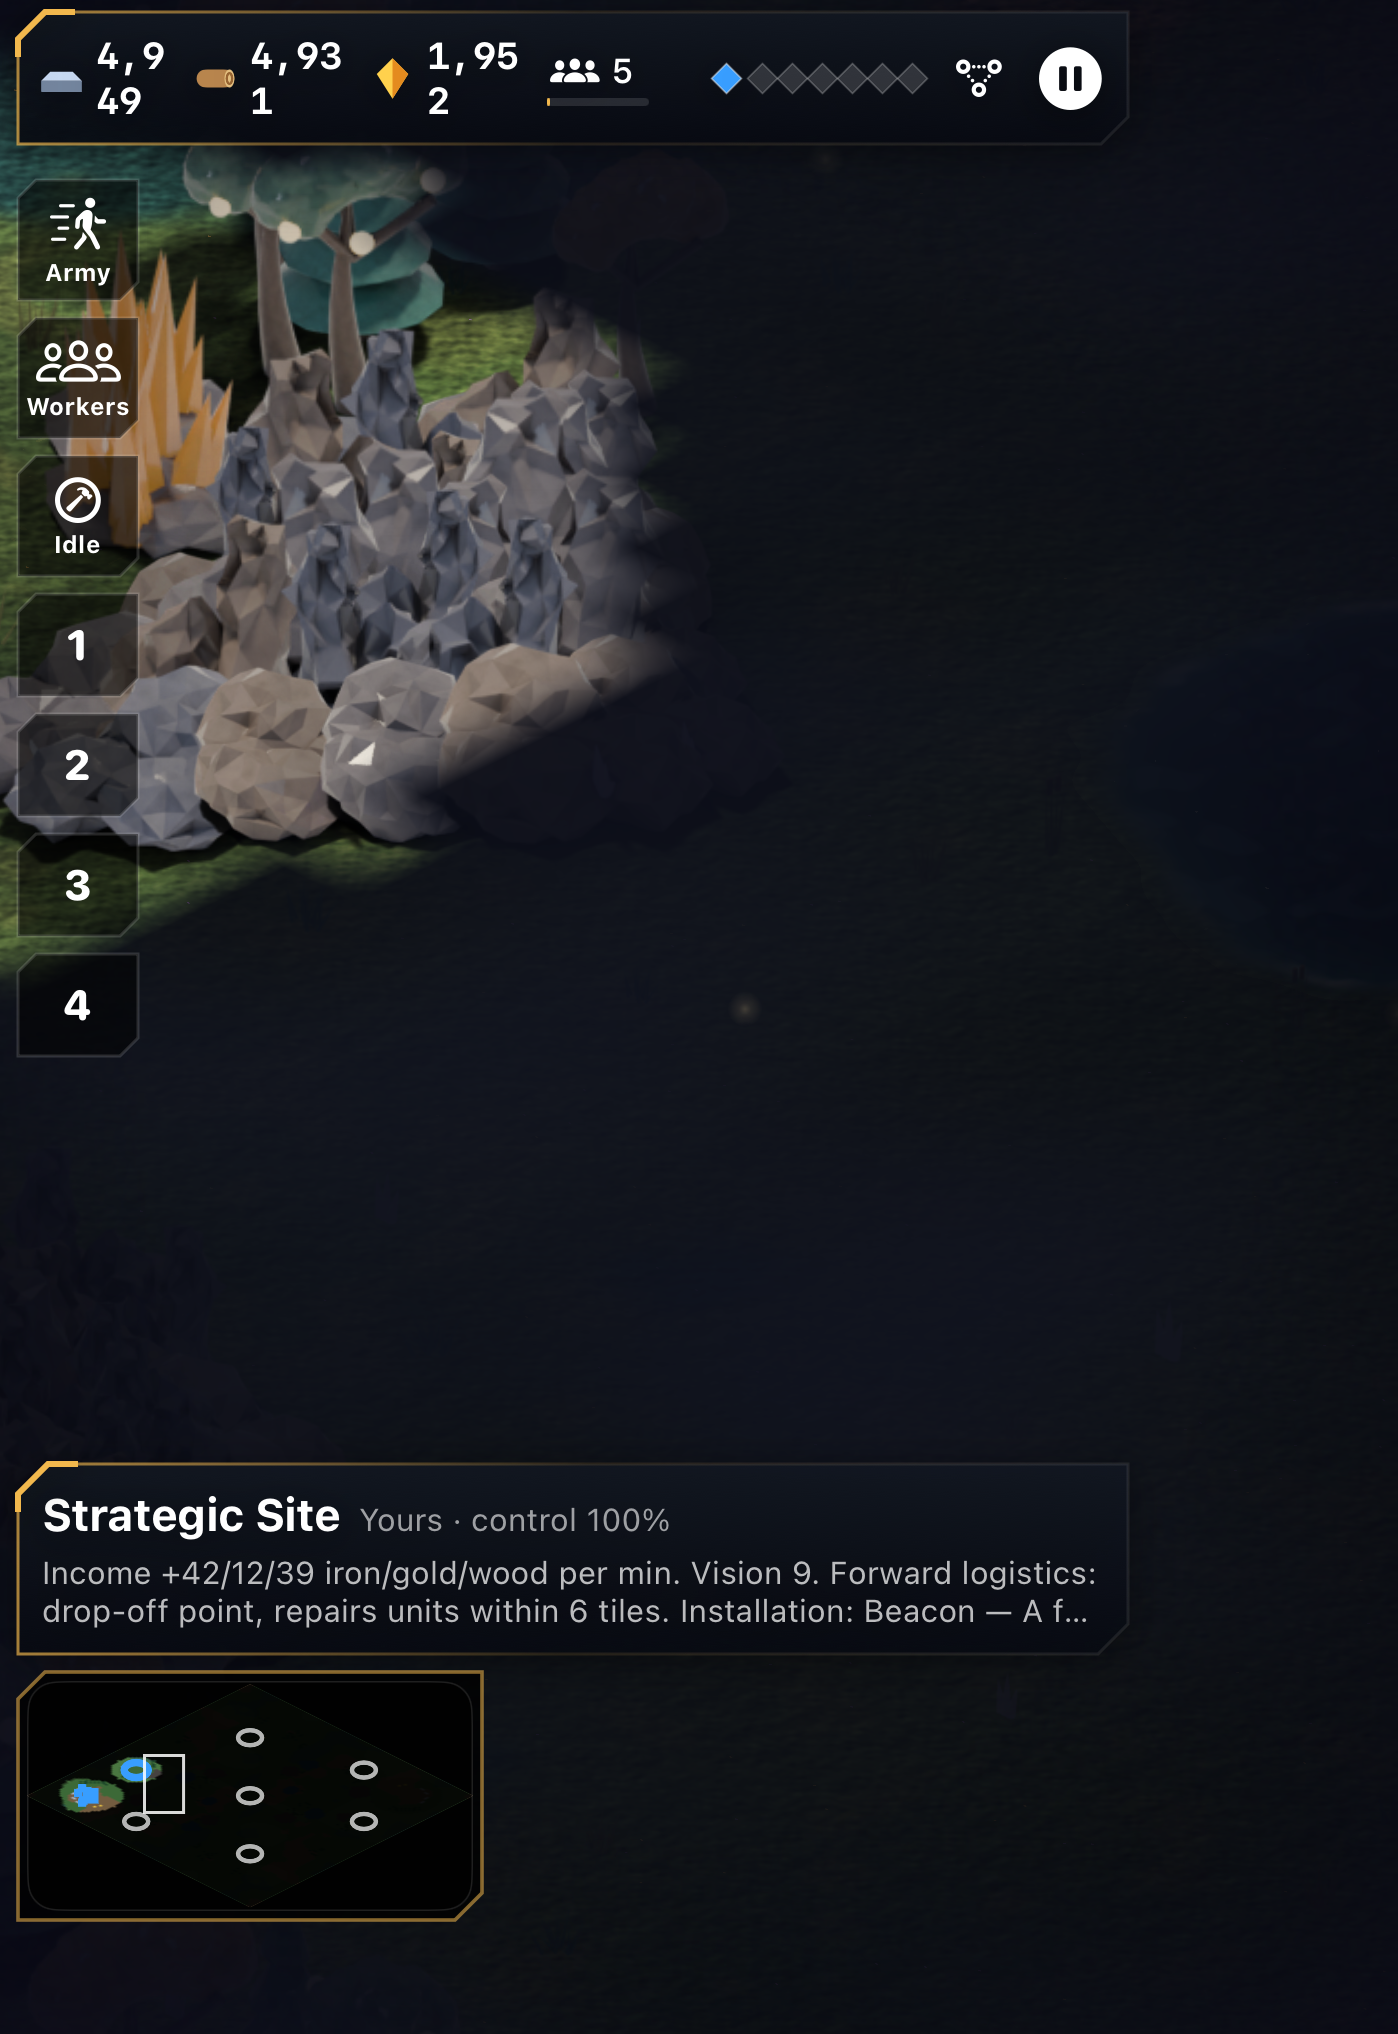
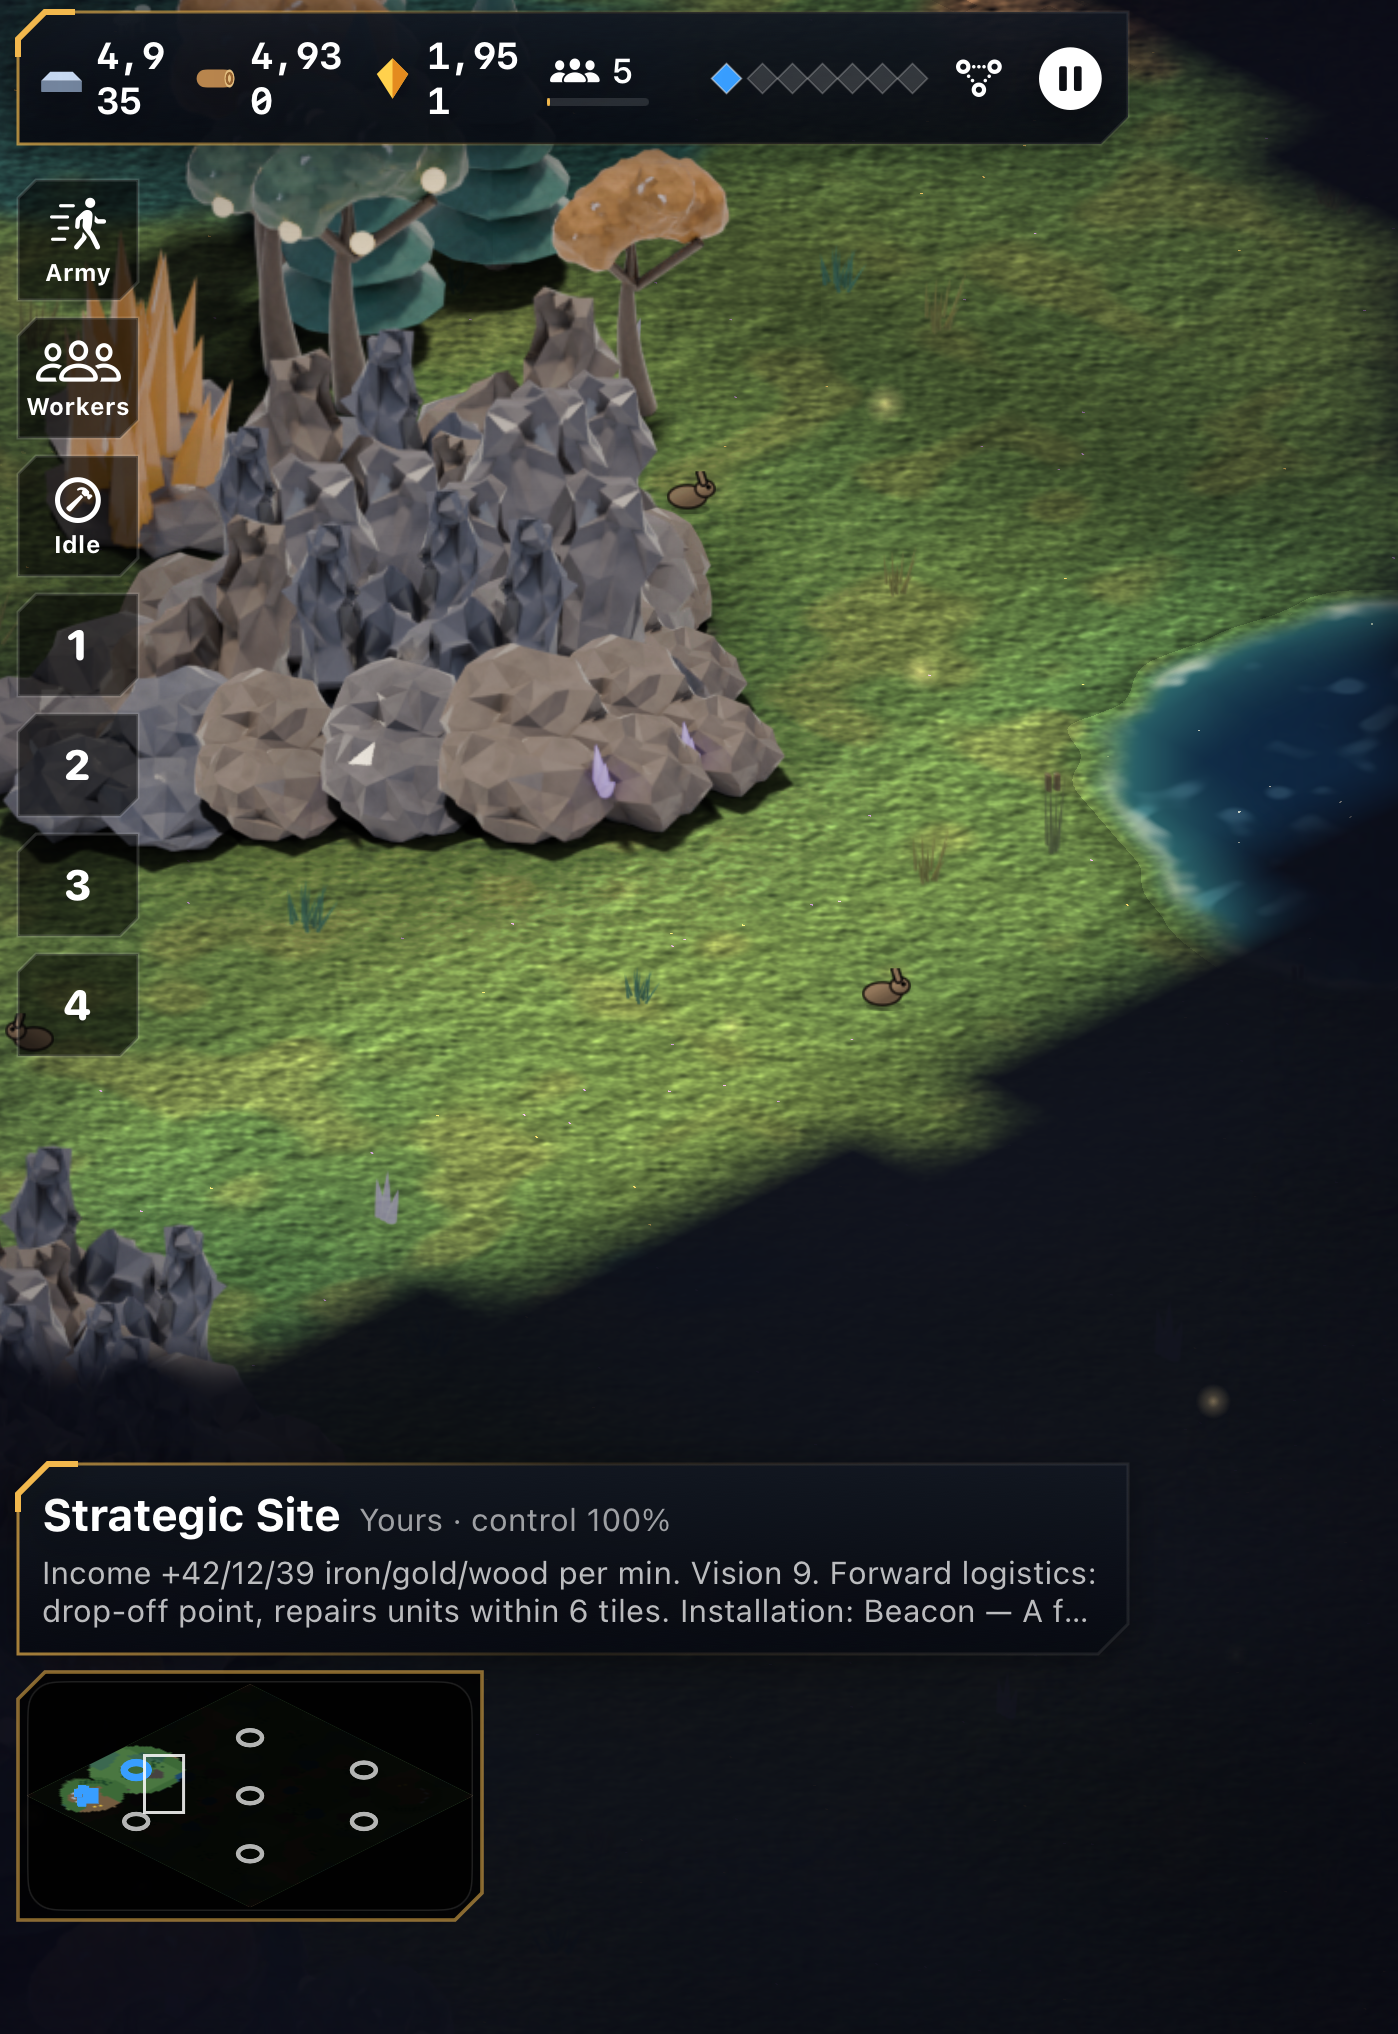
Feature checks: the Beacon check places a barracks 14 tiles out on unscouted ground
The -scouted workaround is gone; screenshots re-taken.

diff --git a/MeridianUITests/FeatureChecksUITests.swift b/MeridianUITests/FeatureChecksUITests.swift
@@ -117,17 +117,16 @@ final class FeatureChecksUITests: XCTestCase {
 
     // MARK: Beacon
 
-    /// Configures a Beacon on a held site and tries a Drill Hall (barracks) 14 tiles away, first on unscouted ground,
-    /// then with the ground around the site explored.
-    func beaconFlow(scouted: Bool) -> String {
-        launch(["-autostart", "-seed", "4", "-beaconcheck"] + (scouted ? ["-scouted"] : []))
+    /// Configures a Beacon on a freshly held site and places a Drill Hall (barracks) 14 tiles away on ground nobody
+    /// has scouted: the Beacon sees across its own build zone.
+    func testBeaconForwardBase() throws {
+        launch(["-autostart", "-seed", "4", "-beaconcheck"])
         XCTAssertTrue(hud())
-        let tag = scouted ? "scouted" : "unexplored"
         let beacon = element("cmd_inst4")
         XCTAssertTrue(beacon.waitForExistence(timeout: 10), "Beacon configure button"); sleep(1)
-        if !scouted { shot("beacon_01_configure_menu") }
-        beacon.tap(); sleep(1)
-        if !scouted { shot("beacon_02_configured") }
+        shot("beacon_01_configure_menu")
+        beacon.tap(); sleep(2)
+        shot("beacon_02_configured")
         app.buttons["test_select_workers"].tap(); sleep(1)
         element("cmd_build").tap()
         let hall = app.descendants(matching: .any).matching(identifier: "cmd_b2").firstMatch
@@ -135,20 +134,12 @@ final class FeatureChecksUITests: XCTestCase {
         center().tap(); sleep(1)
         let reason = element("placementReason")
         XCTAssertTrue(reason.waitForExistence(timeout: 3))
-        print("BEACON-CHECK \(tag): \(reason.label)")
-        shot("beacon_03_barracks_" + tag)
+        let label = reason.label
+        print("BEACON-CHECK \(label)")
+        shot("beacon_03_barracks_14_tiles")
         let confirm = app.buttons["confirmPlacement"]
-        let result = reason.label + (confirm.isEnabled ? "" : " [blocked]")
-        if confirm.isEnabled { confirm.tap(); sleep(2); shot("beacon_04_barracks_placed_" + tag) }
-        return result
-    }
-
-    func testBeaconForwardBase() throws {
-        let fog = beaconFlow(scouted: false)
-        XCTAssertTrue(fog.contains("Unexplored"), "unscouted ground 14 tiles out: \(fog)")
-        app.terminate()
-        let ok = beaconFlow(scouted: true)
-        XCTAssertTrue(ok.contains("14 tiles") && !ok.contains("blocked"), "scouted ground 14 tiles out should take a barracks: \(ok)")
+        XCTAssertTrue(label.contains("14 tiles") && confirm.isEnabled, "a barracks 14 tiles from a Beacon should be placeable: \(label)")
+        if confirm.isEnabled { confirm.tap(); sleep(2); shot("beacon_04_barracks_placed") }
     }
 
     // MARK: Replay round trip

diff --git a/Meridian/Game/DevChecks.swift b/Meridian/Game/DevChecks.swift
@@ -28,9 +28,7 @@ extension GameController {
     /// `-beaconcheck`: the player holds the nearest neutral site with resources to spare; the site is selected so
     /// its installation menu shows, and the camera sits 14 tiles east of it (where a barracks should fit once a
     /// Beacon stands there).
-    /// With `scouted`, the ground around the site counts as explored (as if a scout had walked it): a site itself
-    /// only reveals 9 tiles, so 14 tiles out is fog until someone looks.
-    func setupBeaconCheck(scouted: Bool = false) {
+    func setupBeaconCheck() {
         let p = world.players[me]
         p.res = [5000, 2000, 5000]
         guard let hq = world.buildings(of: me).first else { return }
@@ -38,11 +36,6 @@ extension GameController {
             .min(by: { dist2(world.sites[$0].x, world.sites[$0].y, hq.x, hq.y) < dist2(world.sites[$1].x, world.sites[$1].y, hq.x, hq.y) }) else { return }
         world.sites[i].owner = me; world.sites[i].control = 1
         for _ in 0..<4 { match.step() }
-        if scouted {
-            let (sx, sy) = (Int(world.sites[i].x), Int(world.sites[i].y)), n = world.map.size
-            for y in max(0, sy - 18)...min(n - 1, sy + 18) { for x in max(0, sx - 18)...min(n - 1, sx + 18) where (x - sx) * (x - sx) + (y - sy) * (y - sy) <= 18 * 18 {
-                p.explored[world.map.idx(x, y)] = true } }
-        }
         beaconCheckSite = i
         labFocus = (world.sites[i].x + 14, world.sites[i].y)
         DispatchQueue.main.asyncAfter(deadline: .now() + 2) { [weak self] in self?.selectSite(i) }

diff --git a/Meridian/UI/MeridianApp.swift b/Meridian/UI/MeridianApp.swift
@@ -299,7 +299,7 @@ struct RootView: View {
                 if let st = arg("-stress"), let n = Int(st) { c.setupStress(n) }
                 if a.contains("-lab") { c.setupLab() }
                 if a.contains("-fogcheck") { c.setupFogCheck() }
-                if a.contains("-beaconcheck") { c.setupBeaconCheck(scouted: a.contains("-scouted")) }
+                if a.contains("-beaconcheck") { c.setupBeaconCheck() }
                 if let k = arg("-buildlab").flatMap(Int.init) { c.setupBuildLab(k) }
                 if a.contains("-showtech") { DispatchQueue.main.asyncAfter(deadline: .now() + 2) { c.showTech = true } }
                 if let u = arg("-portraitdemo") {
